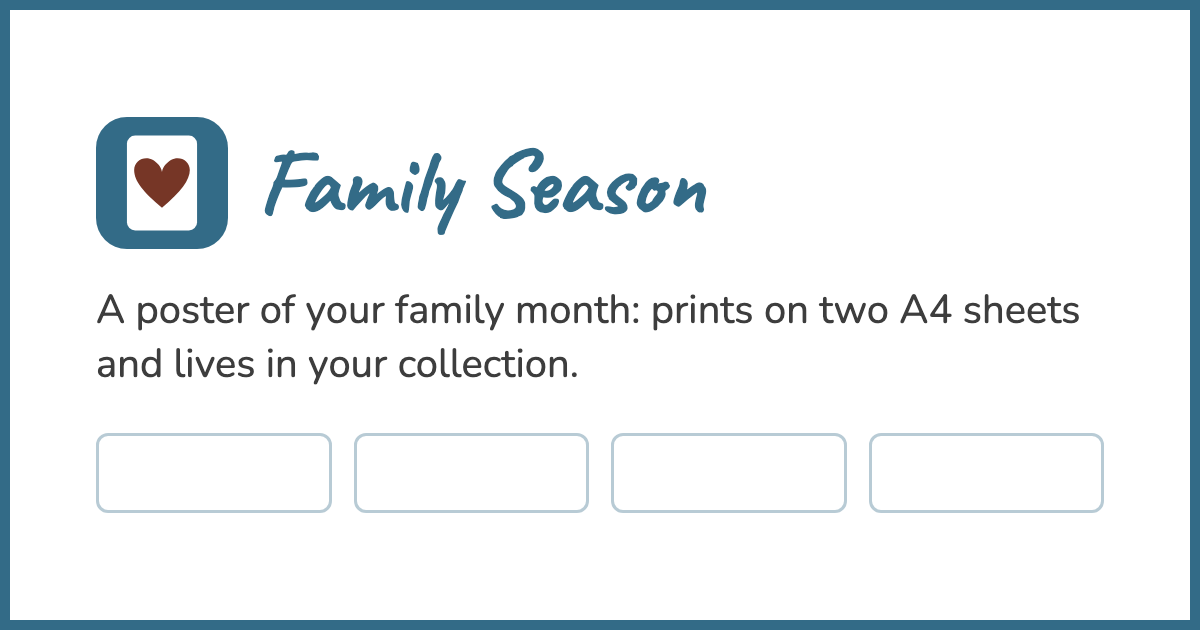
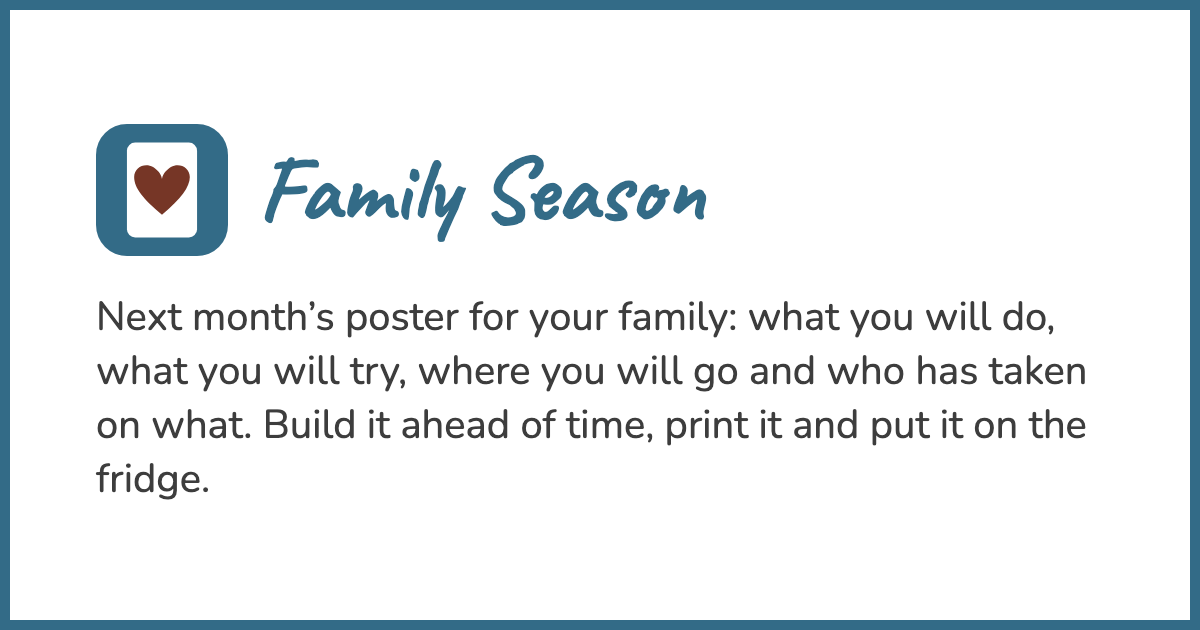
feat: add Open Graph check tool and enhance metadata generation

diff --git a/tools/og/check.ts b/tools/og/check.ts
@@ -1,0 +1,92 @@
+import { execFileSync } from 'node:child_process'
+import { writeFileSync } from 'node:fs'
+import { tmpdir } from 'node:os'
+import { join } from 'node:path'
+
+// What a messenger will draw, without a deploy. The card is assembled from the tags the page
+// really serves, and the picture is taken from the address being checked - so a local run
+// shows the local og-*.png even though the tag itself names the production address.
+const target = process.argv[2] ?? 'http://localhost:3000/ru'
+
+const TAGS = [
+  'og:site_name',
+  'og:title',
+  'og:description',
+  'og:image',
+  'og:url',
+  'twitter:card',
+] as const
+
+const response = await fetch(target, {
+  headers: { 'user-agent': 'TelegramBot (like TwitterBot)' },
+})
+if (!response.ok) {
+  console.error(`${target} answered ${response.status}`)
+  process.exit(1)
+}
+
+const html = await response.text()
+const headEnd = html.indexOf('</head>')
+
+function tag(name: string): { value: string; late: boolean } | null {
+  const attribute = name.startsWith('og:') ? 'property' : 'name'
+  const found = html.match(new RegExp(`<meta ${attribute}="${name}" content="([^"]*)"`))
+  if (!found) return null
+  return { value: found[1], late: headEnd >= 0 && found.index > headEnd }
+}
+
+const found = new Map(TAGS.map((name) => [name, tag(name)]))
+
+for (const name of TAGS) {
+  const hit = found.get(name)
+  if (!hit) console.log(`— ${name}: missing`)
+  else
+    console.log(
+      `${hit.late ? '!' : '·'} ${name}: ${hit.value}${hit.late ? '  (after </head>)' : ''}`,
+    )
+}
+if ([...found.values()].some((hit) => hit?.late)) {
+  console.log('\n! a tag after </head> is streamed metadata: a crawler may never read it')
+}
+
+const escape = (text: string) =>
+  text.replace(/&/g, '&amp;').replace(/</g, '&lt;').replace(/>/g, '&gt;')
+
+const value = (name: (typeof TAGS)[number]) => escape(found.get(name)?.value ?? '')
+const image = found.get('og:image')?.value
+const shown = image ? new URL(new URL(image).pathname, target).href : null
+
+const card = `<meta charset="utf-8">
+<title>Link preview — ${escape(target)}</title>
+<style>
+  body { margin: 0; padding: 40px; background: #d5e8c8; font: 15px/1.4 -apple-system, system-ui, sans-serif }
+  .msg { max-width: 560px; margin: 0 auto; background: #eeffdd; border-radius: 14px; padding: 14px 16px }
+  .link { color: #2b7fd4; word-break: break-all; margin-bottom: 10px }
+  .card { border-left: 3px solid #6cb04b; padding-left: 12px }
+  .site { color: #4a9c2d; font-weight: 700 }
+  .title { font-weight: 700; margin-top: 2px }
+  .text { margin-top: 2px }
+  .shot { margin-top: 10px; width: 100%; border-radius: 8px; display: block }
+  .none { margin-top: 10px; padding: 20px; text-align: center; color: #a00; border: 2px dashed #a00; border-radius: 8px }
+  .meta { max-width: 560px; margin: 24px auto 0; font-size: 13px; color: #3a4a2f }
+  .meta code { background: rgba(0,0,0,0.06); padding: 1px 4px; border-radius: 3px }
+</style>
+<div class="msg">
+  <div class="link">${escape(target)}</div>
+  <div class="card">
+    <div class="site">${value('og:site_name')}</div>
+    <div class="title">${value('og:title')}</div>
+    <div class="text">${value('og:description')}</div>
+    ${shown ? `<img class="shot" src="${escape(shown)}" alt="">` : '<div class="none">no og:image</div>'}
+  </div>
+</div>
+<div class="meta">
+  Assembled from the tags <code>${escape(target)}</code> really serves.
+  ${shown && image !== shown ? `The picture is loaded from <code>${escape(shown)}</code> — the tag names <code>${escape(image)}</code>.` : ''}
+</div>
+`
+
+const out = join(tmpdir(), 'og-preview.html')
+writeFileSync(out, card)
+console.log(`\ncard: ${out}`)
+execFileSync('open', [out])

diff --git a/src/server/publicSeasons.ts b/src/server/publicSeasons.ts
@@ -1,3 +1,4 @@
+import { cache } from 'react'
 import { auth } from './auth'
 import { query } from './db'
 import { logger } from './logger'
@@ -54,15 +55,16 @@ interface Row {
   favorited: boolean
 }
 
-export async function readPublicSeason(value: string, lang: Lang): Promise<PublicSeasonState> {
-  const code = codeOrNull(value)
-  if (!code) return { status: 'missing' }
+export const readPublicSeason = cache(
+  async (value: string, lang: Lang): Promise<PublicSeasonState> => {
+    const code = codeOrNull(value)
+    if (!code) return { status: 'missing' }
 
-  const session = await auth()
-  const me = session?.accountKey ?? ''
-  const result = await query<Row>(
-    'public:read',
-    `select p.code, p.content, p.names, p.palette, p.icon_set, p.language, p.fill_id, p.rolling_month,
+    const session = await auth()
+    const me = session?.accountKey ?? ''
+    const result = await query<Row>(
+      'public:read',
+      `select p.code, p.content, p.names, p.palette, p.icon_set, p.language, p.fill_id, p.rolling_month,
             p.author_key, p.hidden_at, p.blocked_at,
             (select count(*) from public_likes l where l.public_id = p.id)::int as likes,
             exists(select 1 from public_likes l
@@ -72,37 +74,38 @@ export async function readPublicSeason(value: string, lang: Lang): Promise<Publi
             exists(select 1 from public_favorites f
                     where f.public_id = p.id and f.account_key = $2) as favorited
        from public_seasons p where p.code = $1 and p.language = $3`,
-    [code, me, lang],
-  )
-  if (result.status !== 'ok') {
-    logger.error('public season not read', { code, reason: result.status })
-    return { status: 'error' }
-  }
+      [code, me, lang],
+    )
+    if (result.status !== 'ok') {
+      logger.error('public season not read', { code, reason: result.status })
+      return { status: 'error' }
+    }
 
-  const row = result.rows[0]
-  if (!row) return { status: 'missing' }
-  if (row.blocked_at) return { status: 'missing' }
+    const row = result.rows[0]
+    if (!row) return { status: 'missing' }
+    if (row.blocked_at) return { status: 'missing' }
 
-  const template = joinSeason(row.content, row.names)
-  return {
-    status: 'ok',
-    season: {
-      code: row.code,
-      template: row.rolling_month ? withTargetMonth(template) : template,
-      palette: knownPalette(row.palette),
-      iconSet: knownIconSet(row.icon_set),
-      lang: knownLang(row.language),
-      fillId: row.fill_id,
-      mine: Boolean(row.author_key) && row.author_key === session?.accountKey,
-      system: !row.author_key,
-      hidden: Boolean(row.hidden_at),
-      likes: row.likes,
-      liked: row.liked,
-      reported: row.reported,
-      favorited: row.favorited,
-    },
-  }
-}
+    const template = joinSeason(row.content, row.names)
+    return {
+      status: 'ok',
+      season: {
+        code: row.code,
+        template: row.rolling_month ? withTargetMonth(template) : template,
+        palette: knownPalette(row.palette),
+        iconSet: knownIconSet(row.icon_set),
+        lang: knownLang(row.language),
+        fillId: row.fill_id,
+        mine: Boolean(row.author_key) && row.author_key === session?.accountKey,
+        system: !row.author_key,
+        hidden: Boolean(row.hidden_at),
+        likes: row.likes,
+        liked: row.liked,
+        reported: row.reported,
+        favorited: row.favorited,
+      },
+    }
+  },
+)
 
 export async function noteFork(value: string): Promise<void> {
   const code = codeOrNull(value)

diff --git a/tools/og/build.ts b/tools/og/build.ts
@@ -61,8 +61,6 @@ html, body { margin: 0; background: #fff }
 .brand { display: flex; align-items: center; gap: 30px }
 .name { font-family: 'Caveat', cursive; font-weight: 700; font-size: 92px; line-height: 1; white-space: nowrap; color: ${TILE} }
 .text { font-size: 40px; line-height: 1.35; color: #3d3d3d }
-.weeks { display: flex; gap: 22px; margin-top: 8px }
-.week { flex: 1; height: 74px; border: 3px solid ${TILE}; border-radius: 12px; opacity: 0.35 }
 </style>
 <div class="card">
   <div class="brand">
@@ -70,7 +68,6 @@ html, body { margin: 0; background: #fff }
     <div class="name">${brand}</div>
   </div>
   <div class="text">${description}</div>
-  <div class="weeks"><i class="week"></i><i class="week"></i><i class="week"></i><i class="week"></i></div>
 </div>
 `
 }
@@ -78,8 +75,10 @@ html, body { margin: 0; background: #fff }
 const fonts = await inlineFonts()
 
 for (const lang of LANGS) {
-  const { site } = DICTS[lang]
+  const { landing, site } = DICTS[lang]
   const out = join(root, 'public', `og-${lang}.png`)
-  shoot(page(fonts, site.brand, site.description), { width: WIDTH, height: HEIGHT, out })
+  // The hero phrase, not site.description: the card is the first thing a person reads about
+  // the project, and on the landing page that is the phrase written for exactly that job.
+  shoot(page(fonts, site.brand, landing.heroLead), { width: WIDTH, height: HEIGHT, out })
   console.log(`og: public/og-${lang}.png (${WIDTH}×${HEIGHT})`)
 }

diff --git a/src/app/[lang]/s/[code]/page.tsx b/src/app/[lang]/s/[code]/page.tsx
@@ -3,6 +3,7 @@ import { notFound } from 'next/navigation'
 import { Toast } from '../../../../components/site/Toast'
 import { getDict, getLang } from '../../../../i18n/server'
 import { iconSetOrNull } from '../../../../model/icons'
+import { ideaTitle } from '../../../../model/library'
 import { pageMeta } from '../../../../model/meta'
 import { paletteOrNull } from '../../../../model/palettes'
 import { ROUTES } from '../../../../model/site'
@@ -16,11 +17,15 @@ export async function generateMetadata({
   params: Promise<{ code: string }>
 }): Promise<Metadata> {
   const { code } = await params
-  const { pages, site } = await getDict()
+  const lang = await getLang()
+  const [state, { pages, site }] = await Promise.all([readPublicSeason(code, lang), getDict()])
   return pageMeta({
-    lang: await getLang(),
+    lang,
     path: `${ROUTES.publicSeason}/${code}`,
-    title: pages.publicTitle,
+    // ideaTitle, not defaultSeasonTitle: a publication has no month in its name on purpose -
+    // an idea is taken for what to fill a month with, and whose month it was is beside the
+    // point (see "The showcase: publishing").
+    title: state.status === 'ok' ? ideaTitle(state.season.template, lang) : pages.publicTitle,
     description: pages.publicDescription,
     siteName: site.brand,
     ogAlt: site.ogAlt,

diff --git a/src/app/[lang]/p/[token]/page.tsx b/src/app/[lang]/p/[token]/page.tsx
@@ -2,6 +2,7 @@ import type { Metadata } from 'next'
 import { notFound } from 'next/navigation'
 import { Toast } from '../../../../components/site/Toast'
 import { getDict, getLang } from '../../../../i18n/server'
+import { fill } from '../../../../i18n/fill'
 import { pageMeta } from '../../../../model/meta'
 import { ROUTES } from '../../../../model/site'
 import { auth } from '../../../../server/auth'
@@ -15,11 +16,17 @@ export async function generateMetadata({
   params: Promise<{ token: string }>
 }): Promise<Metadata> {
   const { token } = await params
-  const { pages, site } = await getDict()
+  const [state, { pages, site }] = await Promise.all([readSharedSeason(token), getDict()])
   return pageMeta({
     lang: await getLang(),
     path: `${ROUTES.shared}/${token}`,
-    title: pages.sharedTitle,
+    // The name the owner gave the row: the month, the year and the theme of the month. It is
+    // what the link is sent for, and it is the only thing a messenger card can say about the
+    // season without a picture. Names are not in it - they live apart from the content.
+    title:
+      state.status === 'ok'
+        ? fill(pages.ownTitle, { title: state.season.title })
+        : pages.sharedTitle,
     description: pages.sharedDescription,
     siteName: site.brand,
     ogAlt: site.ogAlt,

diff --git a/src/server/userSeasons.ts b/src/server/userSeasons.ts
@@ -261,7 +261,9 @@ export async function removeUserSeason(value: string): Promise<LibraryStatus> {
   return 'error'
 }
 
-export async function readSharedSeason(value: string): Promise<UserSeasonState> {
+// Wrapped in cache() for the same reason readUserSeason is: within one request both
+// generateMetadata and the page ask for the season, and the query must go out once.
+export const readSharedSeason = cache(async (value: string): Promise<UserSeasonState> => {
   const token = tokenOrNull(value)
   if (!token) return { status: 'missing' }
 
@@ -290,7 +292,7 @@ export async function readSharedSeason(value: string): Promise<UserSeasonState> 
       shareToken: token,
     },
   }
-}
+})
 
 export async function refreshShareToken(
   value: string,

diff --git a/src/model/meta.ts b/src/model/meta.ts
@@ -48,7 +48,12 @@ export function pageMeta({
       images: [image],
       ...(index ? { url } : {}),
     },
-    twitter: { card: 'summary_large_image', title, description, images: [image] },
+    twitter: {
+      card: 'summary_large_image',
+      title,
+      description,
+      images: [image],
+    },
   }
 }
 
